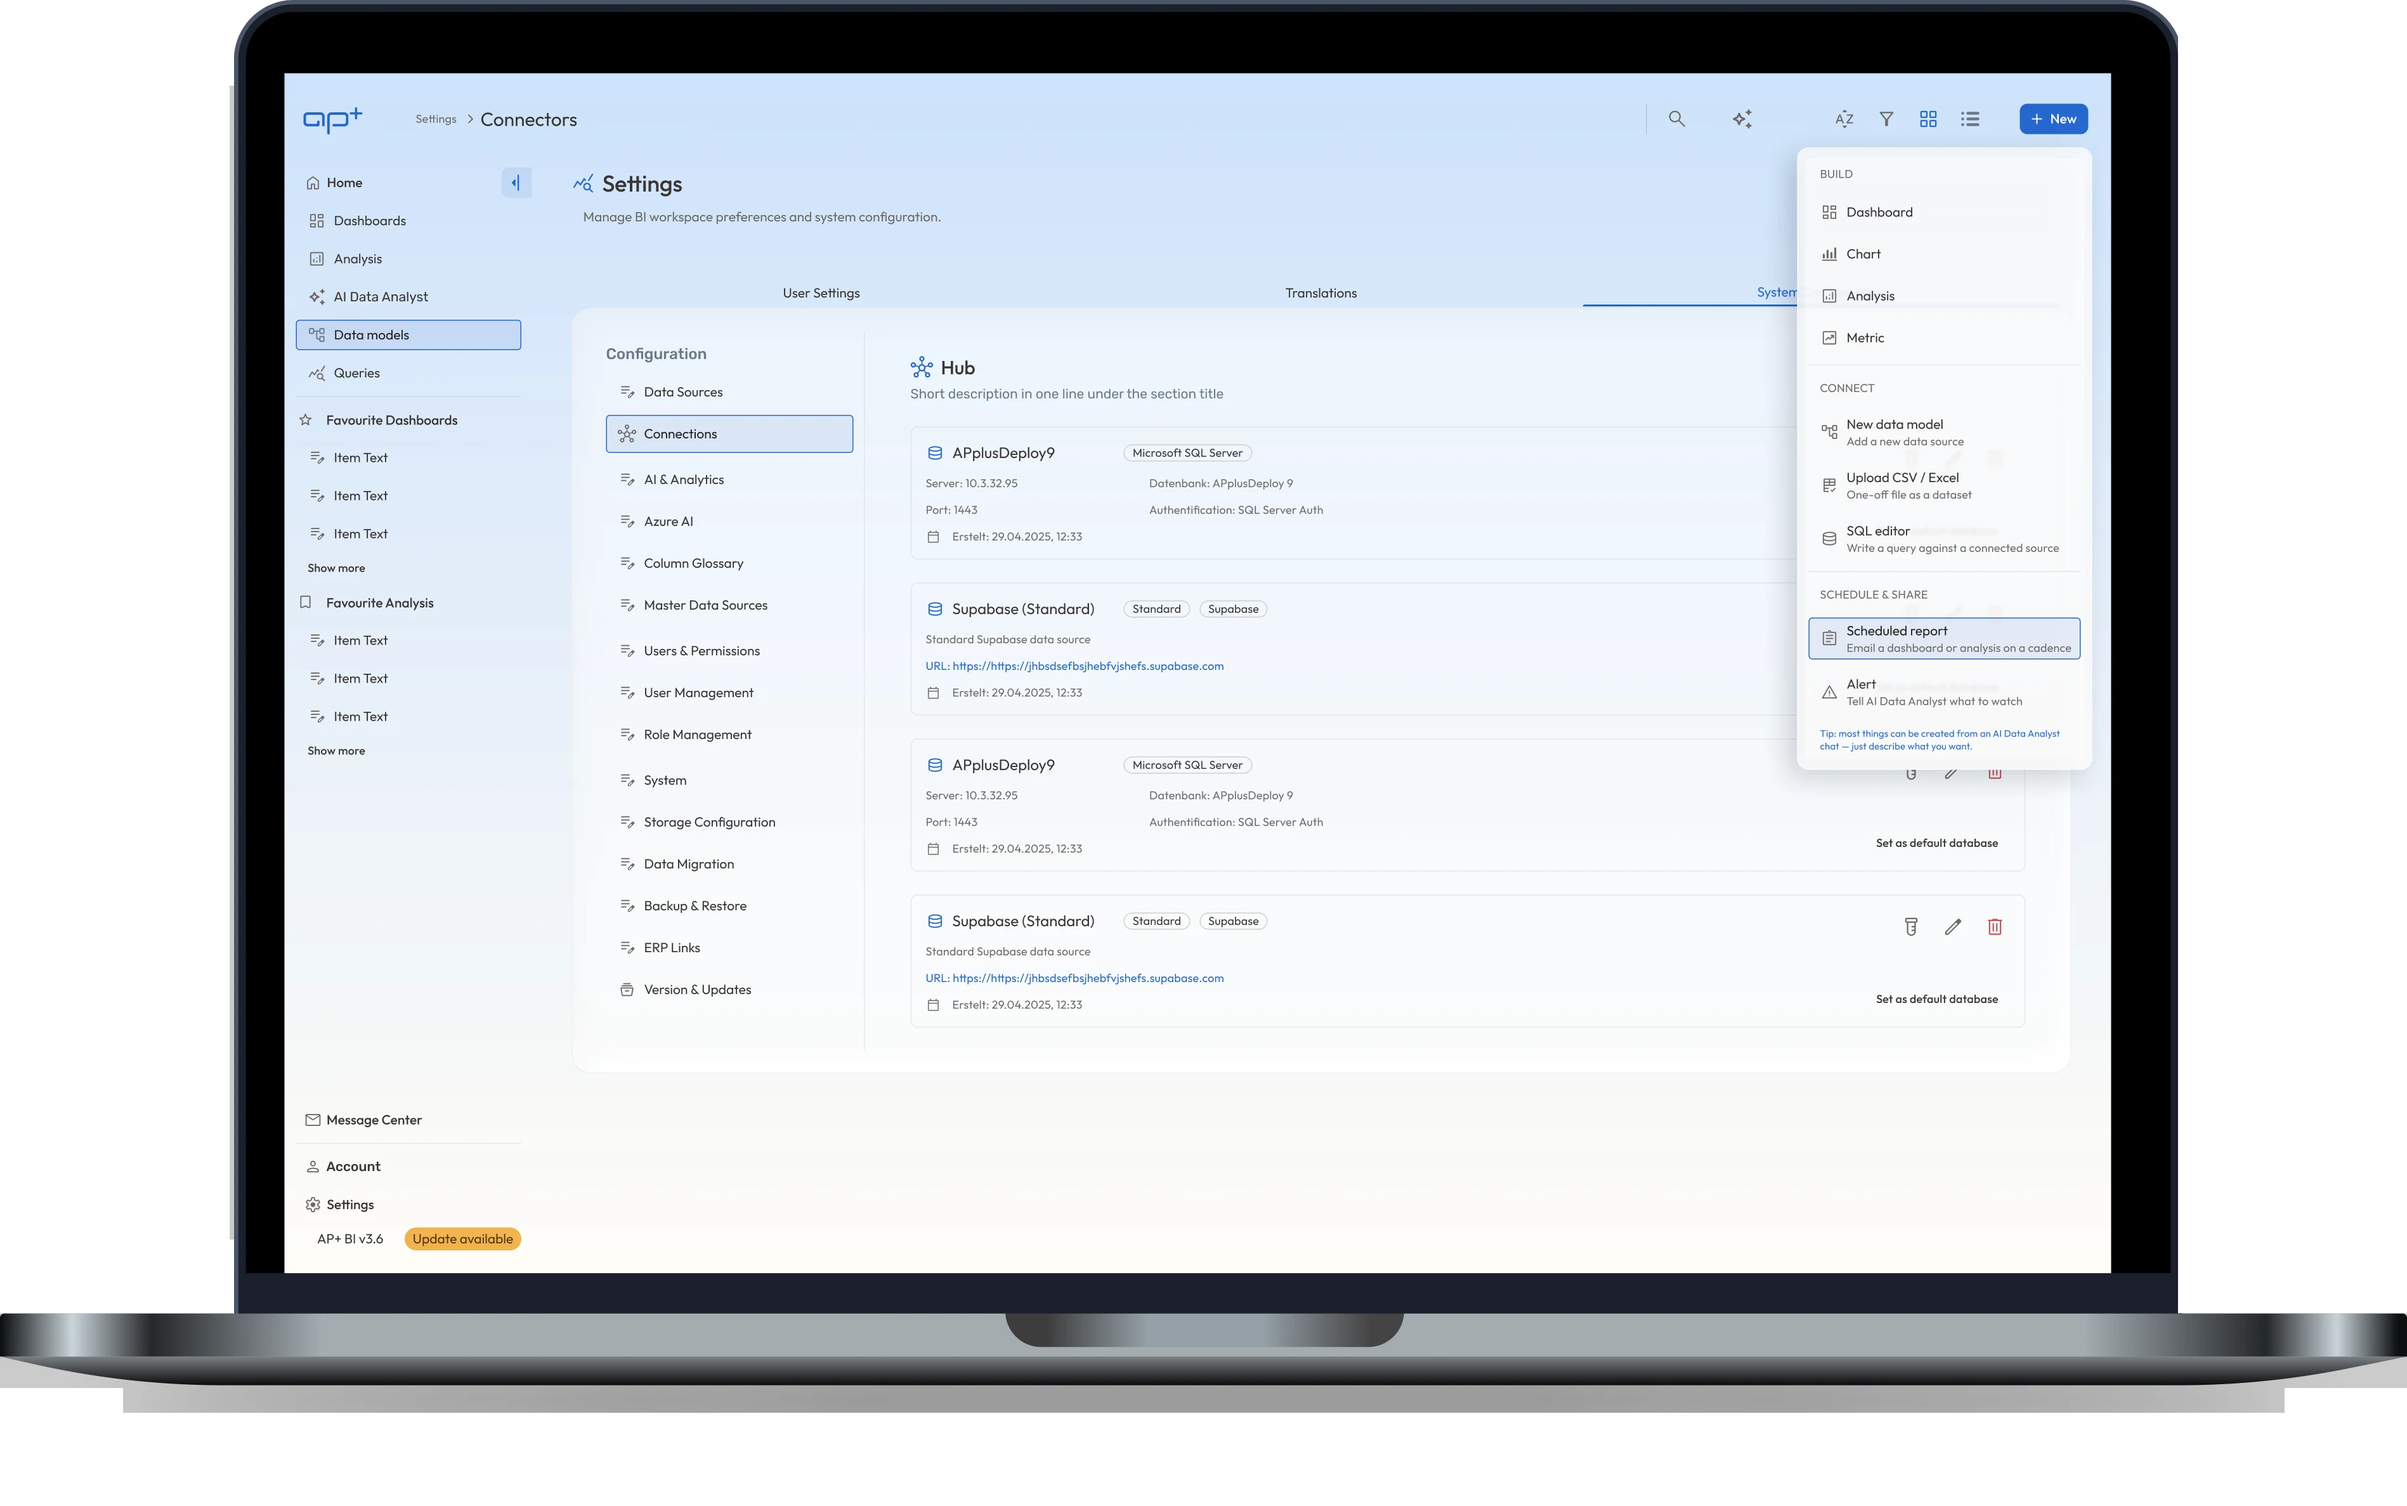
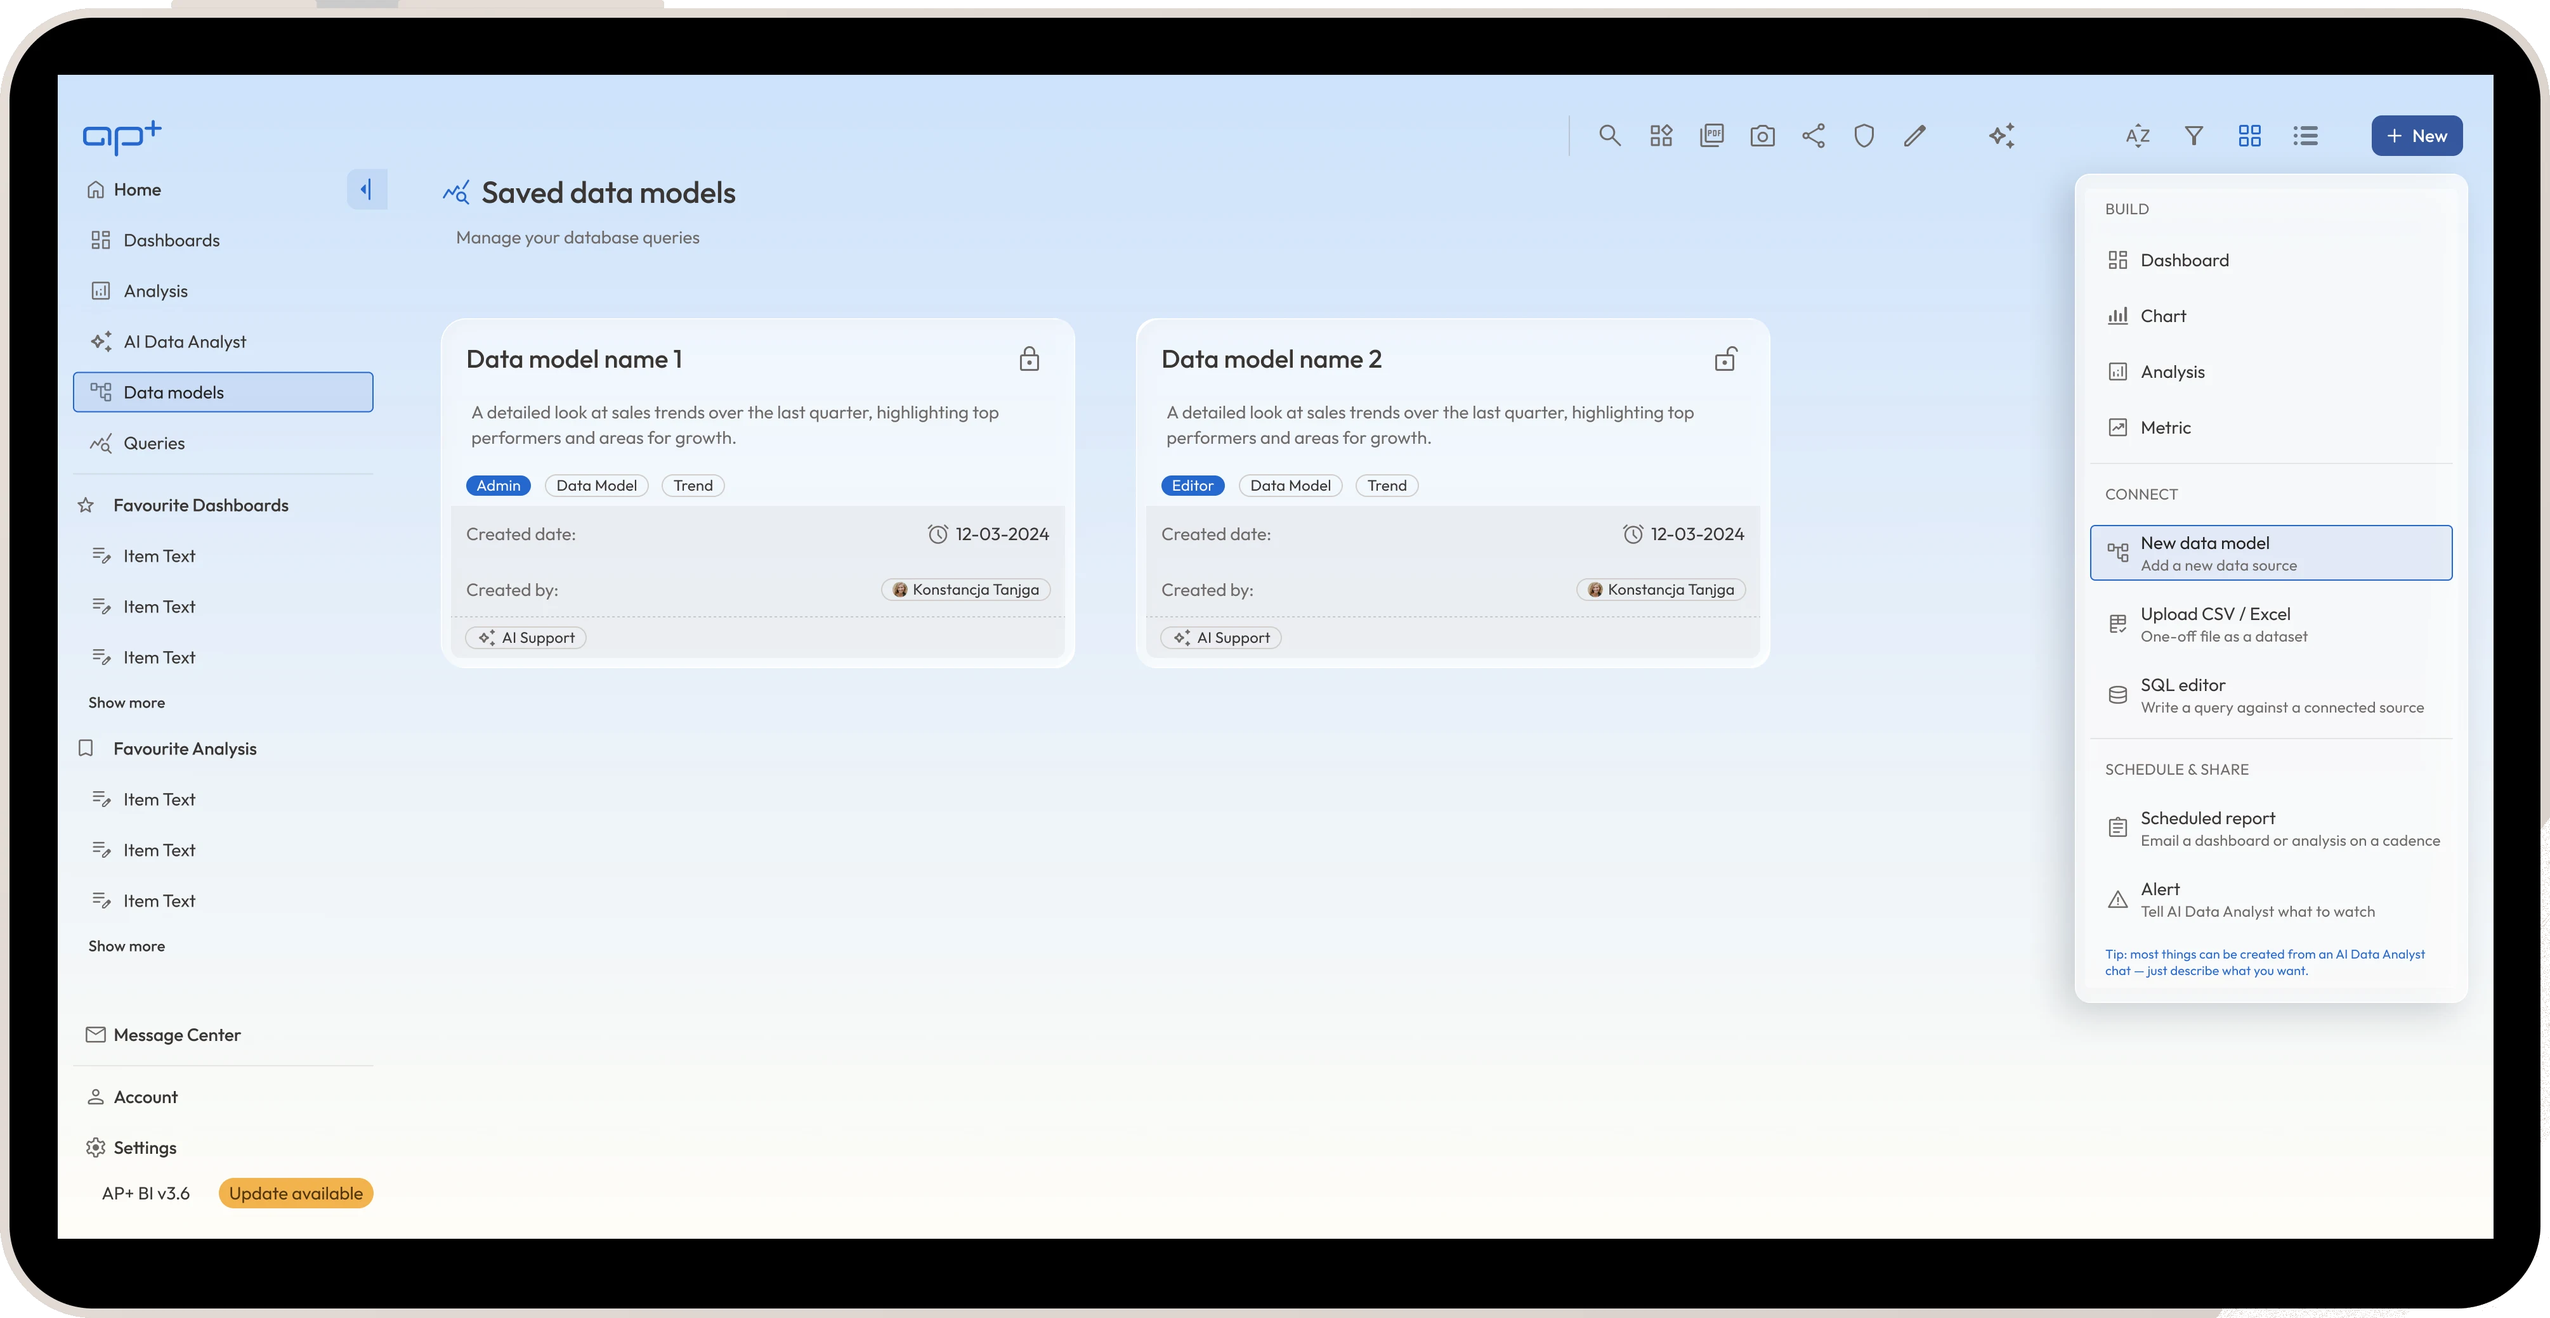
content(analytics): Data models - widok Saved data models z menu New (wezel 278:23274) zamiast ekranu Settings

diff --git a/site/src/content/bi.ts b/site/src/content/bi.ts
@@ -360,8 +360,9 @@ export const bi: CaseStudy = {
           kind: "shot",
           width: "wall",
           src: `${D}/models-select-2400.webp`,
-          frame: "macbook",
-          caption: "A generated prototype of the data-model builder: the first query added from the shelf, before any relationship is drawn.",
+              frame: "macbook",
+              caption:
+                "Saved data models, and the New menu split by intent: build, connect, schedule and share. A data model is one of the things you connect, not something you draw from nothing.",
         },
       ],
     },
